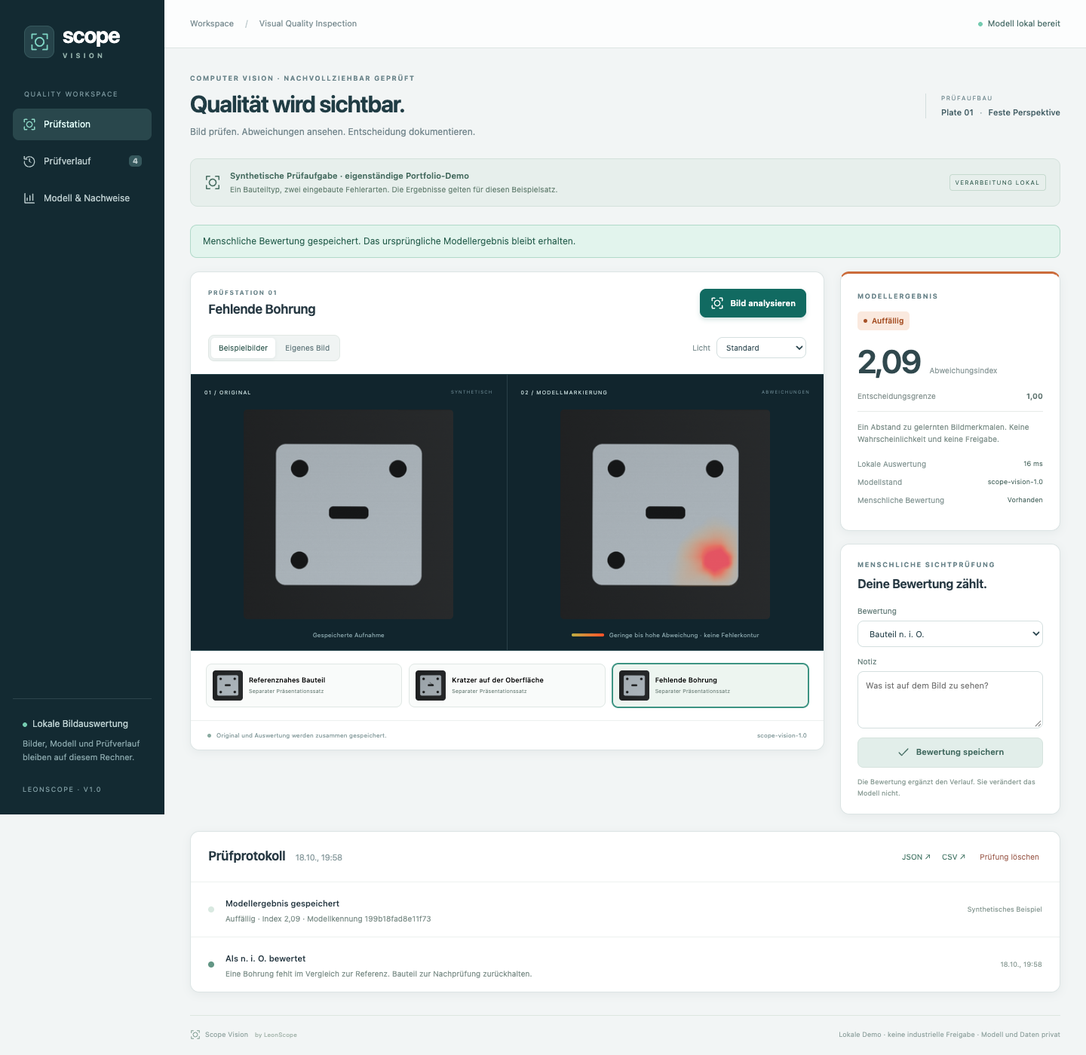
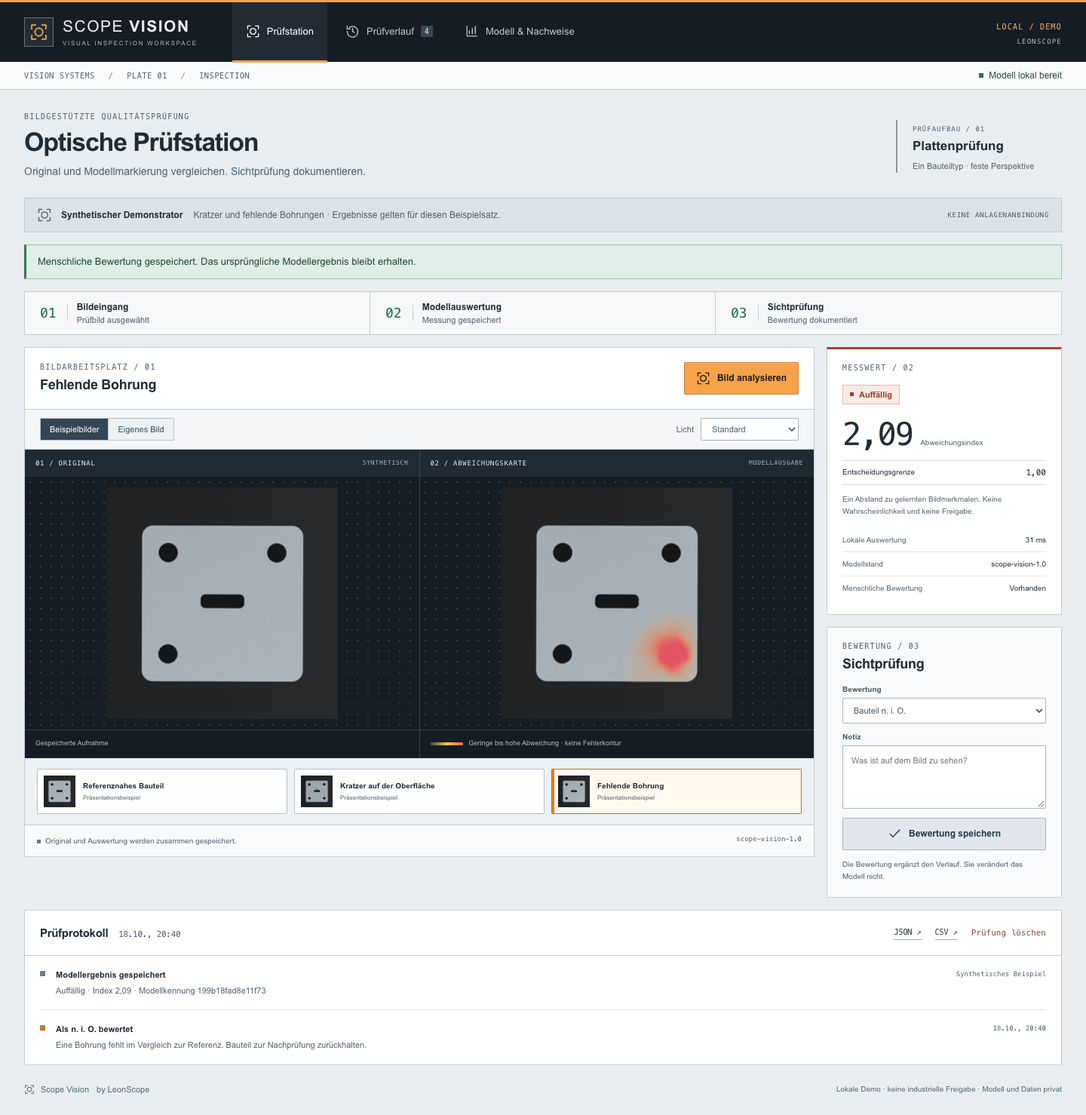
Present Scope Vision with a distinct industrial visual identity

diff --git a/README.de.md b/README.de.md
@@ -1,64 +1,79 @@
-# Scope Vision · Visual Quality Inspector
+![Scope Vision — industrielle Bildprüfung von LeonScope. Vom Prüfbild zur dokumentierten Entscheidung.](assets/cover.png)
 
-[English](README.md) · **Deutsch**
+**PRODUKTVORSTELLUNG / 01** &nbsp; · &nbsp; **Deutsch** / [English](README.md) &nbsp; · &nbsp; [Fallstudie](docs/CASE-STUDY.de.md) &nbsp; · &nbsp; [Prüfergebnisse](docs/VERIFICATION.de.md)
 
-**Lokale Bildprüfung mit berechneten Abweichungsmarkierungen und nachvollziehbarer menschlicher Bewertung.** Von LeonScope mit KI-Unterstützung als eigenständiges Portfolio-Projekt entwickelt.
+# Scope Vision
 
-Scope Vision prüft eine fiktive Platte auf Kratzer und fehlende Bohrungen. Ein tatsächliches Bildmodell ist mit einem bedienbaren Arbeitsablauf verbunden: Bild prüfen, markierte Bereiche ansehen, menschliche Bewertung dokumentieren und Prüfbericht exportieren.
+### Optische Prüfung. Sichtbare Abweichungen. Dokumentierte Entscheidungen.
 
-**Dieses Repository enthält ausschließlich die Präsentation. Anwendungscode, Trainings-, Kalibrierungs- und Testdaten sowie Modellgewichte und gelernte Parameter bleiben privat.** Die Screenshots verwenden gesondert erzeugte Präsentationsbeispiele. Für das eigene Material wird keine Open-Source- oder Creative-Commons-Lizenz erteilt; siehe [Rechtehinweis](RIGHTS.md).
+Eine lokale Prüfkonsole für eine fiktive Metallplatte: Das Bildmodell untersucht Kratzer und fehlende Bohrungen, markiert auffällige Regionen und übergibt das Ergebnis an die menschliche Sichtprüfung. Von **LeonScope** mit KI-Unterstützung als eigenständiges Portfolio-Projekt entwickelt.
 
-![Scope Vision: Prüfstation mit berechneter Abweichungsmarkierung und dokumentierter Sichtprüfung](assets/inspection-desktop.png)
+| ANWENDUNGSBEREICH | PRÜFAUFBAU | PROJEKTSTATUS |
+| :--- | :--- | :--- |
+| Bildgestützte Qualitätsprüfung | Synthetische Platte · feste Perspektive | Funktionierender lokaler Prototyp |
 
-*Fehlende Bohrung in einem synthetischen Präsentationsbeispiel. Die farbige Markierung wird aus dem Bild berechnet; die menschliche Bewertung wird getrennt vom Modellergebnis gespeichert.*
+**Öffentlich ist ausschließlich diese Präsentation.** Anwendungscode, Trainings-/Kalibrierungs-/Testdaten, Modellgewichte und gelernte Parameter bleiben privat. Es wird keine Open-Source- oder Creative-Commons-Lizenz für das eigene Material erteilt. [Rechtehinweis](RIGHTS.md).
 
-## Der Arbeitsablauf
+---
 
-- Synthetische Beispiele oder ein lokal hochgeladenes PNG-/JPEG-Bild prüfen.
-- Originalbild und ungefähre Abweichungsmarkierung vergleichen.
-- Ergebnisse als **unauffällig**, **auffällig** oder **manuell prüfen** unterscheiden.
-- Menschliche Bewertungen ergänzen, ohne die ursprüngliche Modellmessung zu verändern.
-- Lokalen Prüfverlauf wieder öffnen und Berichte als JSON oder CSV exportieren.
-- Die Auswertung des festgelegten Modellstands und die Lichtprüfungen direkt in der Anwendung ansehen.
+## 01 / Der Bildarbeitsplatz
 
-Eigene Uploads erfordern immer eine menschliche Prüfung, weil ihre Bildverteilung nicht validiert wurde. Der Abweichungsindex beschreibt einen Abstand relativ zu einer kalibrierten Grenze. Er ist keine Wahrscheinlichkeit und keine Freigabe für die Fertigung.
+![Industrielle Scope-Vision-Prüfkonsole: Original, berechnete Abweichungskarte, Messwert und Sichtprüfung](assets/inspection-desktop.png)
 
-## Messung an einer bewusst begrenzten Aufgabe
+**Gezeigter Prüffall: fehlende Bohrung.** Das Originalbild und die berechnete Abweichungskarte stehen direkt nebeneinander. Rechts sind Messwert und menschliche Bewertung getrennt angeordnet; darunter bleibt die Entscheidung im Prüfprotokoll nachvollziehbar. Das Bild stammt aus dem separaten Präsentationssatz.
 
-Der getrennte Testsatz bei Standardlicht enthält **180 synthetische Szenen**: 60 fehlerfreie Platten, 60 mit Kratzern und 60 mit fehlenden Bohrungen. Die Entscheidungsgrenze wurde vor diesem Test festgelegt.
+| 01 · Bildeingang | 02 · Modellauswertung | 03 · Sichtprüfung |
+| :--- | :--- | :--- |
+| Synthetisches Beispiel oder lokales PNG/JPEG auswählen. Beleuchtung als Prüfvariante ändern. | Abweichungskarte berechnen, Index anzeigen und Aufnahmebedingungen berücksichtigen. | i. O., n. i. O. oder weitere Prüfung dokumentieren. Bericht als JSON/CSV exportieren. |
 
-| Verfahren | Erkannte Fehler | Übersehene Fehler | Fehlalarme bei fehlerfreien Bildern |
-| --- | ---: | ---: | ---: |
-| Vortrainierte CNN-Merkmale + gelernte Bildverteilungen | 120 / 120 | 0 | 0 / 60 |
-| Einfacher Grauwert-Referenzvergleich | 117 / 120 | 3 | 0 / 60 |
+Eigene Uploads erfordern immer eine menschliche Prüfung. Der Abweichungsindex ist ein Abstand relativ zur kalibrierten Grenze; er ist keine Wahrscheinlichkeit und keine Freigabe für die Fertigung. Die Markierung zeigt Regionen ungefähr an, keine vermessene Fehlerkontur.
 
-Diese Beobachtungen gelten für den eigenen synthetischen Bildgenerator. Daraus folgen weder eine zugesicherte Leistung an realen Fertigungsbildern noch eine allgemeine Überlegenheit gegenüber einfacheren Verfahren. [Vollständige Nachweise und Grenzen](docs/VERIFICATION.de.md).
+## 02 / Prüfarchiv und Modellvalidierung
 
-## Technischer Nachweis
-
-**46 automatisierte Anwendungs-/Modellprüfungen und acht Browserabläufe in einer frischen lokalen Kopie bestanden**, mit neu installierten, festgeschriebenen Abhängigkeiten. Das versiegelte private Modellpaket wurde übernommen und geprüft; bei dieser Kontrolle wurde es nicht neu trainiert. Alle **436 Bildprüfsummen** stimmten überein, und die **180 Testvorhersagen** reproduzierten die dokumentierten Gesamtergebnisse.
-
-Python · FastAPI · PyTorch/TorchVision · React · TypeScript · SQLite · pytest · Playwright.
-
-Der Detektor verwendet unveränderte vortrainierte ResNet18-Merkmale und lokal angepasste Gauß-Verteilungen für Bildbereiche, angelehnt an PaDiM. Es wird weder ein Basismodell von Grund auf trainiert noch das CNN nachtrainiert. [Verfahren und Umsetzungsentscheidungen](docs/CASE-STUDY.de.md).
-
-## Weitere Ansichten
-
-![Lokaler Prüfverlauf mit getrennten Modellergebnissen und menschlichen Bewertungen](assets/history-desktop.png)
+<table>
+<tr>
+<td width="50%"><a href="assets/history-desktop.png"><img src="assets/history-desktop.png" alt="Prüfarchiv mit Modellergebnis, Abweichungsindex und menschlicher Bewertung" /></a></td>
+<td width="50%"><a href="assets/evaluation-desktop.png"><img src="assets/evaluation-desktop.png" alt="Modellvalidierung mit Klassifikationsmatrix, Vergleichsverfahren und Beleuchtungsprüfung" /></a></td>
+</tr>
+<tr>
+<td><strong>PRÜFARCHIV</strong><br />Gespeicherte Prüfungen filtern und wieder öffnen. Die ursprüngliche Modellmessung bleibt bei jeder ergänzten Bewertung erhalten.</td>
+<td><strong>MODELLVALIDIERUNG</strong><br />Festgelegter Modellstand, getrennte Datenmengen, Vergleichsverfahren und Lichtprüfungen direkt in der Anwendung.</td>
+</tr>
+</table>
 
 <details>
-<summary>Modellnachweise und Smartphone-Ablauf</summary>
+<summary><strong>Mobile Ansicht öffnen</strong> — derselbe Prüfablauf bei 390 Pixeln Breite</summary>
 
-![Modellnachweise, Vergleichsverfahren und gepaarte Lichtprüfungen](assets/evaluation-desktop.png)
+Original, Abweichungskarte, Messwert und Bewertung folgen auf dem Smartphone untereinander. Der Ablauf wurde ohne horizontales Überlaufen geprüft.
 
-<img src="assets/inspection-mobile.png" width="350" alt="Scope Vision: Bildprüfung und menschliche Bewertung in einer 390 Pixel breiten Smartphone-Ansicht" />
+<img src="assets/inspection-mobile.png" width="340" alt="Mobile Scope-Vision-Prüfkonsole mit Bildanalyse, menschlicher Bewertung und Protokoll" />
 
 </details>
 
-## Einordnung und Grenzen
+## 03 / Technisches Datenblatt
 
-Dieses eigenständige Projekt verbindet LeonScopes Erfahrung in Robotik und kameragestützter Qualitätsprüfung mit einer neuen lokalen Anwendung. Es enthält keine Arbeitgeberbilder, Kundendaten, industriellen Zeichnungen oder früheren Arbeitgeberquellcode. Eine Kamera, ein Roboter oder eine Fertigungslinie sind nicht angebunden.
+| Merkmal | Umsetzung und beobachteter Stand |
+| :--- | :--- |
+| Bildmodell | Unveränderte vortrainierte ResNet18-Merkmale + lokal angepasste Gauß-Verteilungen für Bildbereiche; angelehnt an PaDiM |
+| Lern- und Kalibrierungsdaten | 160 fehlerfreie Lernbilder · 90 Kalibrierungsbilder |
+| Getrennter Test | 180 synthetische Szenen: 60 fehlerfrei, 60 Kratzer, 60 fehlende Bohrung |
+| Modell bei Standardlicht | **120 / 120 Fehler erkannt · 0 / 60 Fehlalarme** |
+| Grauwert-Referenzvergleich | **117 / 120 Fehler erkannt · 3 übersehen · 0 / 60 Fehlalarme** |
+| Verifikation | **46 Anwendungs-/Modellprüfungen + 8 Browserabläufe bestanden** |
+| Wiederholbarkeit | **436 Bildprüfsummen bestätigt · 180 Testvorhersagen reproduziert** |
+| Anwendung | Python · FastAPI · PyTorch/TorchVision · React · TypeScript · SQLite |
+| Gestaltung | Industrielle Prüfkonsole: Graphit, Stahlgrau, Signalorange und funktionale Ergebnisfarben |
 
-Die Anwendung ist ein funktionierender lokaler Prototyp. Sie ist kein gehosteter Dienst und keine industriell abgenommene Prüfanlage. Dieses öffentliche Repository enthält Dokumentation und ausgewählte Bildschirmansichten; es stellt kein ausführbares Paket, keinen öffentlichen Trainingsdatensatz, keinen Modelldownload und keine öffentliche Anwendungs-CI bereit.
+Die Messwerte gelten für den eigenen synthetischen Beispielsatz. Sie belegen keine Zuverlässigkeit an realen Fertigungslinien und keine allgemeine Überlegenheit gegenüber einfacheren Verfahren. Das CNN wird nicht nachtrainiert; Lernen bedeutet hier die Anpassung normaler Merkmalsverteilungen. [Messverfahren, Lichtvarianten und Grenzen](docs/VERIFICATION.de.md).
 
-[Fallstudie](docs/CASE-STUDY.de.md) · [Prüfergebnisse](docs/VERIFICATION.de.md) · [Rechtehinweis](RIGHTS.md) · [LeonScope](https://github.com/LeonScope)
+### Gestaltungs- und Engineering-Entscheidungen
+
+Die Bildarbeitsfläche bildet das Zentrum. Eine horizontale Werkzeugleiste, ein zustandsabhängiger Prüfablauf und klare Messwertfelder unterstützen die Bedienung. Dokumentierte Oberflächen von Cognex, MVTec und SensoPart dienten als Branchenreferenzen; die Gestaltung und das Titelmotiv sind eigenständig. [Gestaltungsreferenzen und Umsetzung](docs/DESIGN-NOTES.md).
+
+Das Projekt knüpft an LeonScopes Erfahrung mit Robotik und kameragestützter Qualitätsprüfung an. Es verwendet keine Arbeitgeberbilder, Kundendaten, industriellen Zeichnungen oder früheren Arbeitgeberquellcode. Eine Kamera, ein Roboter oder eine Fertigungslinie sind nicht angebunden. Es gibt kein öffentliches Deployment, kein ausführbares Paket, keinen Datensatz-/Modelldownload und keine öffentliche Anwendungs-CI.
+
+---
+
+**LEONSCOPE / ENGINEERING PORTFOLIO**
+
+[Fallstudie](docs/CASE-STUDY.de.md) · [Prüfergebnisse](docs/VERIFICATION.de.md) · [Gestaltung](docs/DESIGN-NOTES.md) · [Rechtehinweis](RIGHTS.md) · [Profil](https://github.com/LeonScope)

diff --git a/README.md b/README.md
@@ -1,64 +1,79 @@
-# Scope Vision · Visual Quality Inspector
+![Scope Vision — visual quality inspection by LeonScope. From image to documented decision.](assets/cover.png)
 
-**English** · [Deutsch](README.de.md)
+**PRODUCT BRIEF / 01** &nbsp; · &nbsp; **English** / [Deutsch](README.de.md) &nbsp; · &nbsp; [Case study](docs/CASE-STUDY.md) &nbsp; · &nbsp; [Verification](docs/VERIFICATION.md)
 
-**Local visual inspection with model-generated anomaly maps and a traceable human review.** Built by LeonScope with AI assistance as an independent portfolio project.
+# Scope Vision
 
-Scope Vision inspects a fictional plate for scratches and missing holes. It connects an actual image model to a usable workflow: inspect an image, examine the marked areas, record a human assessment, and export the inspection report.
+### Visual inspection. Visible anomalies. Recorded decisions.
 
-**Presentation repository only. Application source, training/calibration/test data, model weights and fitted parameters remain private.** The screenshots use separately generated presentation examples. No open-source or Creative Commons license is granted for original material; see [Rights](RIGHTS.md).
+A local inspection console for a fictional metal plate. The image model checks scratches and missing holes, highlights anomalous regions and hands the result over to human review. Built by **LeonScope** with AI assistance as an independent portfolio project.
 
-![Scope Vision inspection station with an actual anomaly map and a recorded human assessment](assets/inspection-desktop.png)
+| APPLICATION | INSPECTION SETUP | PROJECT STATUS |
+| :--- | :--- | :--- |
+| Image-based quality inspection | Synthetic plate · fixed perspective | Functional local prototype |
 
-*A missing hole in a synthetic presentation example. The colored overlay is computed from the image; the human assessment is stored separately from the model result.*
+**This repository publishes the presentation only.** Application source, training/calibration/test data, model weights and fitted parameters remain private. No open-source or Creative Commons license is granted for the original material. [Rights notice](RIGHTS.md).
 
-## The workflow
+---
 
-- Inspect synthetic examples or a local PNG/JPEG upload.
-- Compare the original image with an approximate anomaly map.
-- Distinguish **unremarkable**, **anomalous** and **manual review required** outcomes.
-- Append human assessments without changing the original model measurement.
-- Reopen the local inspection history and export JSON or CSV reports.
-- Examine the frozen model's evaluation and lighting checks inside the application.
+## 01 / The image workspace
 
-Every own upload requires human review, because its distribution has not been validated. The anomaly index is a distance relative to a calibrated threshold, not a probability or manufacturing acceptance decision.
+![Industrial Scope Vision console showing the original image, computed anomaly map, measured score and human review](assets/inspection-desktop.png)
 
-## Measured on a deliberately narrow task
+**Inspection shown: a missing hole.** The original image and computed anomaly map sit side by side. The measured score and human assessment occupy distinct panels on the right, with the decision preserved in the inspection record below. This image comes from the separate presentation split.
 
-The fixed standard-light test contains **180 separate synthetic scenes**: 60 normal plates, 60 with scratches and 60 with missing holes. The decision threshold was selected before this test.
+| 01 · Image input | 02 · Model analysis | 03 · Human review |
+| :--- | :--- | :--- |
+| Choose a synthetic example or local PNG/JPEG. Change lighting as an inspection variant. | Compute the anomaly map, display the index and account for capture conditions. | Record acceptance, rejection or further review. Export the report as JSON/CSV. |
 
-| Method | Detected defects | Missed defects | False alarms on normal images |
-| --- | ---: | ---: | ---: |
-| Frozen CNN features + fitted patch distributions | 120 / 120 | 0 | 0 / 60 |
-| Simple grayscale reference comparison | 117 / 120 | 3 | 0 / 60 |
+Own uploads always require human review. The anomaly index expresses distance relative to a calibrated threshold; it is not a probability or a manufacturing release. The overlay roughly indicates regions, not a measured defect boundary.
 
-These are observations on the project's own synthetic generator. They do not establish performance on real factory images or general superiority over simpler methods. [Full verification and limitations](docs/VERIFICATION.md).
+## 02 / Inspection archive and model validation
 
-## Engineering evidence
-
-**46 automated application/model checks and 8 browser workflows passed in a fresh local copy**, with independently installed pinned dependencies. The sealed private model bundle was reused and verified; it was not retrained during this check. All **436 image hashes** matched, and the **180 held-out predictions** reproduced the recorded aggregate results.
-
-Python · FastAPI · PyTorch/TorchVision · React · TypeScript · SQLite · pytest · Playwright.
-
-The detector uses frozen pretrained ResNet18 features and locally fitted Gaussian patch distributions inspired by PaDiM. It does not train a foundation model or fine-tune the CNN. [Method and implementation decisions](docs/CASE-STUDY.md).
-
-## More views
-
-![Local inspection history with separate model outcomes and human assessments](assets/history-desktop.png)
+<table>
+<tr>
+<td width="50%"><a href="assets/history-desktop.png"><img src="assets/history-desktop.png" alt="Inspection archive with model outcome, anomaly index and human assessment" /></a></td>
+<td width="50%"><a href="assets/evaluation-desktop.png"><img src="assets/evaluation-desktop.png" alt="Model validation with a classification matrix, baseline comparison and lighting checks" /></a></td>
+</tr>
+<tr>
+<td><strong>INSPECTION ARCHIVE</strong><br />Filter and reopen stored inspections. Every added assessment preserves the original model measurement.</td>
+<td><strong>MODEL VALIDATION</strong><br />Frozen model state, separate data splits, baseline comparison and lighting checks inside the application.</td>
+</tr>
+</table>
 
 <details>
-<summary>Model evidence and mobile workflow</summary>
+<summary><strong>Open the mobile view</strong> — the same workflow at 390 pixels wide</summary>
 
-![Model evidence, baseline comparison and paired lighting observations](assets/evaluation-desktop.png)
+The original image, anomaly map, score and assessment follow vertically on a phone. The workflow was checked without horizontal overflow. Application screenshots show the German interface.
 
-<img src="assets/inspection-mobile.png" width="350" alt="Scope Vision inspection and human review on a 390-pixel mobile viewport" />
+<img src="assets/inspection-mobile.png" width="340" alt="Mobile Scope Vision console with image analysis, human review and inspection record" />
 
 </details>
 
-## Context and boundaries
+## 03 / Technical specification
 
-This independent project connects LeonScope's experience in robotics and camera-based quality inspection with a new local application. It contains no employer images, client data, industrial drawings or prior employer code. It does not connect to a camera, robot or production line.
+| Item | Implementation and observed result |
+| :--- | :--- |
+| Image model | Frozen pretrained ResNet18 features + locally fitted Gaussian patch distributions; inspired by PaDiM |
+| Fitting and calibration | 160 normal fitting images · 90 calibration images |
+| Held-out test | 180 synthetic scenes: 60 normal, 60 scratches, 60 missing holes |
+| Model at standard lighting | **120 / 120 defects detected · 0 / 60 false alarms** |
+| Grayscale reference baseline | **117 / 120 defects detected · 3 missed · 0 / 60 false alarms** |
+| Verification | **46 application/model checks + 8 browser workflows passed** |
+| Reproducibility | **436 image hashes verified · 180 test predictions reproduced** |
+| Application | Python · FastAPI · PyTorch/TorchVision · React · TypeScript · SQLite |
+| Interface | Industrial inspection console: graphite, steel gray, signal orange and functional outcome colors |
 
-The application is a working local prototype, not a hosted service or industrially accepted inspection system. This public repository provides documentation and selected screenshots; it does not provide a runnable package, public training dataset, model download or public application CI.
+Results apply to the project's own synthetic sample set. They do not establish reliability on real production lines or general superiority over simpler methods. The CNN is not fine-tuned; learning here means fitting normal-feature distributions. [Evaluation method, lighting variants and limits](docs/VERIFICATION.md).
 
-[Case study](docs/CASE-STUDY.md) · [Verification](docs/VERIFICATION.md) · [Rights](RIGHTS.md) · [LeonScope](https://github.com/LeonScope)
+### Design and engineering decisions
+
+The image workspace is central. A horizontal toolbar, a state-aware process strip and distinct measurement fields support the workflow. Documented interfaces from Cognex, MVTec and SensoPart informed the industry research; the design and cover illustration are original. [Design references and implementation](docs/DESIGN-NOTES.md).
+
+The project draws on LeonScope's experience with robotics and camera-based quality inspection. It uses no employer images, customer records, industrial drawings or previous employer source code. No camera, robot or production line is connected. There is no public deployment, executable package, dataset/model download or public application CI.
+
+---
+
+**LEONSCOPE / ENGINEERING PORTFOLIO**
+
+[Case study](docs/CASE-STUDY.md) · [Verification](docs/VERIFICATION.md) · [Design](docs/DESIGN-NOTES.md) · [Rights notice](RIGHTS.md) · [Profile](https://github.com/LeonScope)

diff --git a/docs/VERIFICATION.de.md b/docs/VERIFICATION.de.md
@@ -6,17 +6,19 @@ Lokal beobachtet am **18. Oktober 2026**. Die Prüfungen wurden im Rahmen der En
 
 ## Prüfung der Anwendung
 
+Die industrielle Oberflächenrevision wurde erneut in der separaten lokalen Prüfkopie geprüft. Der Quellstand wurde vom zuvor verifizierten Commit vorgezogen; Abhängigkeiten wurden weder ergänzt noch geändert. Dieselben 46 Python-Prüfungen und acht Browserabläufe liefen erneut, einschließlich Zustandsprüfungen des Ablaufstreifens. Modell- und Auswertungsartefakte behielten ihre ursprünglichen Prüfsummen. Die frühere Prüfung nach frischer Installation bleibt als historischer Nachweis bestehen; für diese Revision wurden die Abhängigkeiten nicht erneut installiert.
+
 | Prüfung | Beobachtetes Ergebnis |
 | --- | --- |
-| Frische lokale Git-Kopie | Privater Quellstand `2e036c5484294ab6644c3d97edbcbd4a71bc545d` |
-| Installation der Abhängigkeiten | Neue Python-Umgebung und saubere Node-Installation aus festgeschriebenen Dateien abgeschlossen |
+| Separate lokale Prüfkopie | Privater Quellstand `2c12b09cb562f324ae9d19d59ca191712811e395` |
+| Installation der Abhängigkeiten | Zuvor sauber installierte Umgebungen wiederverwendet; Abhängigkeitsdateien bei der Oberflächenrevision unverändert |
 | Typprüfung und Erstellung der fertigen Oberfläche | Bestanden |
 | Python-Prüfungen für Anwendung und Modell | **46 bestanden** |
 | Browserabläufe | **8 bestanden**, ohne Wiederholungsversuche im abschließenden Lauf |
 | Datenintegrität | **436 von 436 Bildprüfsummen stimmen überein** |
 | Wiederholung mit festgelegtem Modellstand | **180 Testvorhersagen reproduziert**; Gesamtergebnisse von Modell und Vergleichsverfahren stimmen überein |
 | Modellstand bei der Wiederholung | Vorhandene private Artefakte geprüft; kein neues Training und keine geänderte Entscheidungsgrenze |
-| Bildschirmansichten | Aus der frischen Kopie aufgenommen; ausschließlich gesonderte Präsentationsbeispiele |
+| Bildschirmansichten | Aus dem geprüften neuen Stand der separaten Kopie; ausschließlich Präsentationsbeispiele |
 
 Umgebung: macOS 26.6 auf arm64, Python 3.12.14, Node.js 24.19.0, Chrome 155.0.8059.84. Die Modellberechnung verwendet die CPU mit zwei PyTorch-Threads. Die Paketversionen sind privat festgehalten, darunter PyTorch 2.14.1 und TorchVision 0.29.1.
 
@@ -43,7 +45,7 @@ Modellversion: `scope-vision-1.0` · Modellkennung: `199b18fad8e11f73`.
 
 Unveränderte vortrainierte ResNet18-Merkmale bilden die Eingabe eines kompakten räumlichen Gauß-Modells für Bildbereiche. Die Kalibrierung maximiert die ausgewogene Klassifikationsgenauigkeit und bevorzugt bei Gleichstand weniger übersehene Fehler, danach die höhere Grenze. Die ermittelte Rohgrenze beträgt **12,225147247314453**. Höhere Bildmesswerte gelten als auffällig; der angezeigte Index ist Messwert geteilt durch diese Grenze. Index 0,85–1,15, bekannte Aufnahmeprobleme oder ein eigener Upload führen zur manuellen Prüfung.
 
-Die Grenze stand vor der Testauswertung fest. Der gespeicherte Bericht ist an Modellmetadaten und Artefaktprüfsummen gebunden. Training/Auswertung verweigern das Überschreiben des vorhandenen angepassten Stands/Berichts. Die Kontrolle in der frischen Kopie wiederholt den festgelegten Stand; sie ist kein zweites Trainingsexperiment.
+Die Grenze stand vor der Testauswertung fest. Der gespeicherte Bericht ist an Modellmetadaten und Artefaktprüfsummen gebunden. Training/Auswertung verweigern das Überschreiben des vorhandenen angepassten Stands/Berichts. Die Kontrolle in der separaten Prüfkopie wiederholt den festgelegten Stand; sie ist kein zweites Trainingsexperiment.
 
 ## Ergebnisse bei Standardlicht
 
@@ -73,6 +75,6 @@ Bei der ursprünglichen lokalen CPU-Auswertung betrug die reine Modellberechnung
 
 ## Grenze der Veröffentlichung
 
-Dieses Repository enthält zweisprachige Dokumentation, vier ausgewählte Bildschirmansichten und einen Rechtehinweis. Es hat eine eigene Präsentationshistorie. Anwendungscode, fertiger Anwendungsbuild, ausführbare Pakete, Trainings-/Kalibrierungs-/Testbilder, Modellparameter, Gewichte, private Protokolle und Kunden-/Arbeitgeberdaten sind nicht enthalten. Die Plattenbilder innerhalb der Screenshots stammen ausschließlich aus den Präsentationsbeispielen.
+Dieses Repository enthält zweisprachige Dokumentation, ein eigenes Titelmotiv, vier ausgewählte Bildschirmansichten und einen Rechtehinweis. Es hat eine eigene Präsentationshistorie. Anwendungscode, fertiger Anwendungsbuild, ausführbare Pakete, Trainings-/Kalibrierungs-/Testbilder, Modellparameter, Gewichte, private Protokolle und Kunden-/Arbeitgeberdaten sind nicht enthalten. Die Plattenbilder innerhalb der Screenshots stammen ausschließlich aus den Präsentationsbeispielen.
 
 Es gibt kein öffentliches Deployment, keine öffentliche Anwendungs-CI, keine Fertigungsintegration und keinen industriellen Abnahmenachweis. [Fallstudie](CASE-STUDY.de.md) · [Rechtehinweis](../RIGHTS.md).

diff --git a/docs/VERIFICATION.md b/docs/VERIFICATION.md
@@ -6,17 +6,19 @@ Observed locally on **18 October 2026**. These are author-run checks, not indepe
 
 ## Application verification
 
+The industrial interface revision was checked again in the separate local checkout. Its source was fast-forwarded from the previously verified commit; no dependencies were added or changed. The same 46 Python checks and eight browser workflows were rerun, including process-strip state checks. The frozen model and evaluation artifacts retained their original checksums. The earlier fresh-install verification remains historical evidence; this revision did not repeat dependency installation.
+
 | Check | Observed result |
 | --- | --- |
-| Fresh local Git copy | Private source commit `2e036c5484294ab6644c3d97edbcbd4a71bc545d` |
-| Dependency installation | New Python environment and clean Node installation from pinned files completed |
+| Separate local verification checkout | Private source commit `2c12b09cb562f324ae9d19d59ca191712811e395` |
+| Dependency installation | Previously clean-installed environments reused; dependency files unchanged for the interface revision |
 | Type checking and production frontend build | Passed |
 | Python application/model checks | **46 passed** |
 | Browser workflows | **8 passed**, no retries |
 | Data integrity | **436 of 436 image hashes matched** |
 | Frozen-model replay | **180 test predictions reproduced**; model and baseline aggregate metrics matched |
 | Model state during replay | Existing private artifacts verified; no refitting or threshold changes |
-| Screenshots | Captured from the fresh copy; separately seeded presentation examples only |
+| Screenshots | Captured from the verified revision in the separate checkout; presentation examples only |
 
 Environment: macOS 26.6 on arm64, Python 3.12.14, Node.js 24.19.0, Chrome 155.0.8059.84. Model inference uses CPU with two PyTorch threads. Dependency versions are recorded privately, including PyTorch 2.14.1 and TorchVision 0.29.1.
 
@@ -43,7 +45,7 @@ Model version: `scope-vision-1.0` · model identifier: `199b18fad8e11f73`.
 
 Frozen pretrained ResNet18 features feed a compact spatial Gaussian patch model. The calibration rule maximizes balanced accuracy, then favors fewer missed defects and then the higher threshold. The resulting raw threshold is **12.225147247314453**. Image scores above it are anomalous; the UI's index is score divided by this threshold. Index 0.85–1.15, known capture-quality issues or any own upload require manual review.
 
-The threshold was fixed before held-out evaluation. The stored report is bound to the model metadata and artifact checksums. Training/evaluation refuse to overwrite the existing fitted state/report. The fresh-copy check replays the frozen state; it is not a second training experiment.
+The threshold was fixed before held-out evaluation. The stored report is bound to the model metadata and artifact checksums. Training/evaluation refuse to overwrite the existing fitted state/report. The verification-checkout replay uses the frozen state; it is not a second training experiment.
 
 ## Standard-light results
 
@@ -73,6 +75,6 @@ On the original local CPU evaluation, per-image model calculation measured **12.
 
 ## Public/private boundary
 
-This repository contains bilingual documentation, four selected screenshots and a rights notice. It has a separate presentation history. It does not contain application source, an application build, executable packages, training/calibration/test images, model parameters, weights, private logs or customer/employer data. The screenshots' plate images come exclusively from the presentation examples.
+This repository contains bilingual documentation, an original cover illustration, four selected screenshots and a rights notice. It has a separate presentation history. It does not contain application source, an application build, executable packages, training/calibration/test images, model parameters, weights, private logs or customer/employer data. The screenshots' plate images come exclusively from the presentation examples.
 
 There is no public deployment, public application CI, factory integration or industrial acceptance evidence. [Case study](CASE-STUDY.md) · [Rights](../RIGHTS.md).

diff --git a/docs/DESIGN-NOTES.md b/docs/DESIGN-NOTES.md
@@ -1,0 +1,35 @@
+# Scope Vision / Interface design
+
+[Product brief](../README.md) · [Produktvorstellung](../README.de.md)
+
+## Industry references
+
+The design research reviewed manufacturers' own documentation on 18 October 2026:
+
+| Reference | Observed interface principle | Scope Vision decision |
+| :--- | :--- | :--- |
+| [Cognex — VisionPro Deep Learning graphical interface](https://docs.cognex.com/deep-learning_332/web/EN/deep-learning/Content/deep-learning-Topics/overview/gui-vpdl.htm) | Dedicated image display, tool parameters, image browser and result information | Place original and anomaly map in one dark inspection workspace; keep measurement and review alongside it |
+| [MVTec — MERLIC user interfaces](https://www.mvtec.com/doc/merlic/5.7/manual/en-us/Content/Getting_started/user_interface.html) | Image-centered tooling with distinct development and operator interfaces | Make the operator's inspection workflow the primary view, with model evidence in a separate view |
+| [SensoPart — VISOR / SensoConfig Web](https://www.sensopart.com/en/products/vision-sensors/visor-software-release-212/) | Browser-based configuration of vision sensors | Keep the local browser workflow usable at desktop and narrow widths |
+
+These references informed layout priorities. Manufacturer logos, screenshots, assets and source code are not included in this repository. Scope Vision is an independent project, with no affiliation, endorsement or claimed feature equivalence.
+
+## Applied visual language
+
+- **Graphite and steel gray:** dark application bar and image stage, neutral control and document surfaces.
+- **Signal orange:** primary actions and active navigation. Green, amber and red remain reserved for specific outcomes or state indicators, supported by text.
+- **Technical typography:** monospaced measurements and identifiers, restrained headings and thin separators.
+- **Visible process:** input, analysis and human review indicate actual application state. No simulated camera connection or production-line status is shown.
+- **Distinct portfolio format:** an original technical cover, numbered product chapters, a view gallery and a compact specification sheet.
+
+The cover is a concept drawing, explicitly labeled as such; it is not a measured inspection result. Application screenshots show real local inference on separate synthetic presentation examples. The redesign changes the interface and presentation without changing the frozen model, calibration or evaluation data.
+
+---
+
+## Deutsch / Gestaltungsentscheidungen
+
+Die Herstellerdokumentationen von **Cognex, MVTec und SensoPart** wurden als Branchenreferenzen für Bildarbeitsflächen, Parameterbereiche und browsergestützte Bedienung betrachtet. Daraus entstand eine eigenständige Prüfkonsole: Graphit und Stahlgrau, Signalorange für Aktionen, geradlinige Flächen und klar getrennte Messwerte und Bewertungen.
+
+Die Prüfung steht im Mittelpunkt. Der Ablaufstreifen zeigt die tatsächlich erreichten Schritte; Original und berechnete Abweichungskarte sind direkt vergleichbar. Auf schmalen Bildschirmen folgen diese Bereiche untereinander. Die öffentliche Präsentation verwendet nummerierte Produktkapitel, eine Ansichtengalerie und ein technisches Datenblatt.
+
+Das Titelmotiv ist eine beschriftete Konzeptzeichnung. Die Bildschirmansichten stammen aus der tatsächlichen lokalen Anwendung mit gesonderten Präsentationsbildern. Modellstand, Kalibrierung und Auswertungsdaten wurden durch die Neugestaltung nicht verändert. Es werden keine Herstellerbilder oder -logos übernommen und keine Partnerschaft oder Gleichwertigkeit zu deren Produkten behauptet.

diff --git a/RIGHTS.md b/RIGHTS.md
@@ -8,7 +8,7 @@ Applicable statutory rights, GitHub's platform terms and third-party rights rema
 
 The application uses third-party components under their respective licenses. Those licenses are not revoked or replaced by this notice. No dependency packages, client source or real customer data are distributed in this presentation.
 
-Application source, training/calibration/test data, model weights and fitted parameters remain private. Only selected screenshots using separate synthetic presentation examples are included. Upstream pretrained model weights are not claimed as original LeonScope material and are not distributed here.
+Application source, training/calibration/test data, model weights and fitted parameters remain private. An original presentation cover and selected screenshots using separate synthetic presentation examples are included. Upstream pretrained model weights are not claimed as original LeonScope material and are not distributed here.
 
 ---
 
@@ -18,4 +18,4 @@ Dieses Repository dient ausschließlich der Portfolio-Präsentation. **Es wird k
 
 Gesetzliche Rechte, GitHubs Plattformbedingungen und Rechte Dritter bleiben unberührt. Öffentliche GitHub-Repositories können entsprechend den Plattformbedingungen angesehen und innerhalb GitHubs geforkt werden. Dieser Hinweis hebt diese Funktionen nicht auf. Die Lizenzen der verwendeten Drittanbieter-Komponenten gelten weiterhin. Diese Präsentation enthält keine Abhängigkeitspakete, vertraulichen Kundenquellen oder echten Kundendaten.
 
-Anwendungscode, Trainings-/Kalibrierungs-/Testdaten, Modellgewichte und gelernte Parameter bleiben privat. Enthalten sind ausschließlich ausgewählte Screenshots mit gesonderten synthetischen Präsentationsbeispielen. Vortrainierte Gewichte von Drittanbietern werden nicht als eigenes Material von LeonScope beansprucht und hier nicht verbreitet.
+Anwendungscode, Trainings-/Kalibrierungs-/Testdaten, Modellgewichte und gelernte Parameter bleiben privat. Enthalten sind ein eigenes Titelmotiv und ausgewählte Screenshots mit gesonderten synthetischen Präsentationsbeispielen. Vortrainierte Gewichte von Drittanbietern werden nicht als eigenes Material von LeonScope beansprucht und hier nicht verbreitet.

diff --git a/docs/CASE-STUDY.de.md b/docs/CASE-STUDY.de.md
@@ -44,6 +44,10 @@ Die Aufnahmeprüfung betrachtet ein unerwartetes Seitenverhältnis, Helligkeit u
 
 ![Gespeicherte Prüfungen und menschliche Bewertungen](../assets/history-desktop.png)
 
+## Industrielle Bedienoberfläche
+
+Eine horizontale Werkzeugleiste führt zu Prüfstation, Archiv und Modellvalidierung. Original und Abweichungskarte liegen auf einer dunklen Bildarbeitsfläche; Messwert und Sichtprüfung bleiben separat. Ein zustandsabhängiger Ablaufstreifen macht den Weg vom Bildeingang zur dokumentierten Entscheidung sichtbar. Graphit, Stahlgrau und Signalorange bilden eine eigenständige industrielle Gestaltung. [Herstellerreferenzen und Gestaltungsentscheidungen](DESIGN-NOTES.md).
+
 ## Entscheidungen für die Auswertung
 
 Training, Kalibrierung, Test und Präsentation verwenden unterschiedliche Szenenkennungen desselben Generators. Nur fehlerfreie Bilder passen die Verteilungen an. Die Kalibrierung legt die Grenzen des Modells und des Vergleichsverfahrens fest. Danach wird der getrennte Test mit dem festgelegten Modellstand ausgewertet. Nach Einsicht in die Ergebnisse fand keine Nachjustierung statt.

diff --git a/docs/CASE-STUDY.md b/docs/CASE-STUDY.md
@@ -44,6 +44,10 @@ Capture checks look for unexpected aspect ratio, brightness and contrast. They c
 
 ![Recorded inspections and human assessments](../assets/history-desktop.png)
 
+## Industrial operator interface
+
+A horizontal toolbar leads to inspection, records and model validation. The original and anomaly map share a dark image workspace; measured score and human review remain separate. A state-aware process strip shows progress from image input to recorded assessment. Graphite, steel gray and signal orange establish an original industrial visual language. [Manufacturer references and design decisions](DESIGN-NOTES.md).
+
 ## Evaluation decisions
 
 Training, calibration, test and presentation use different scene seeds from the same generator. Only normal images fit the distributions. Calibration selects the model and baseline thresholds. The held-out test is then evaluated using the frozen model state. No tuning was performed after viewing its results.
